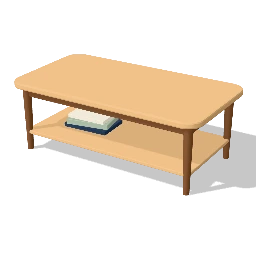
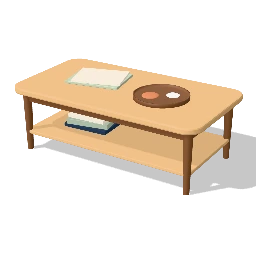
Style the timber coffee tables and lay the trestle and glass dining tables

diff --git a/packages/catalog/src/premium/tables.ts b/packages/catalog/src/premium/tables.ts
@@ -52,7 +52,9 @@ export function books(p: Parts, x: number, y: number, z: number, n: number, w = 
   }
 }
 
-/** Places a slab of `shape` so its top is at y. */
+/** Height kept for the styling on a coffee table top. */
+const DECOR_H = 0.03;
+
 /** A flat slab `w` x `d` with corner radius `r` and a bevelled edge, its top at y = `top`. The bevel stays inside the outline. */
 export const slabTop = (w: number, d: number, r: number, t: number, top: number, bevel: number) => slab(roundedRect(w - 2 * bevel, d - 2 * bevel, Math.max(0.001, r - bevel)), t, 0, top - t, 0, bevel);
 
@@ -61,7 +63,8 @@ export const slabTop = (w: number, d: number, r: number, t: number, top: number,
 /**
  * A coffee table (rectangular or square from its dims).
  * `material: 'wood'`: a soft-cornered oak top on tapered legs with aprons, a
- * lower shelf and a few books on it (`top`, `legs`).
+ * lower shelf and a few books on it (`top`, `legs`). `styled`: a book stack and a
+ * walnut tray with two pebbles on top, within the height.
  * `material: 'glass'`: a glass top showing its thickness in a slim black steel
  * frame, with a timber lower shelf (`top`, `frame`, `shelf`).
  */
@@ -93,12 +96,25 @@ export function buildCoffeeTable(entry: CatalogEntry, ctx?: BuildContext): THREE
   }
   const topT = 0.034;
   const r = Math.min(W, D) * 0.14;
-  p.part('top', slabTop(W, D, r, topT, H, 0.008));
+  // Styled: a book and a low tray on top. The table is then `DECOR_H` lower, so its height stays the entry's.
+  const styled = param<boolean>(entry, 'styled', false);
+  const T = styled ? H - DECOR_H : H;
+  p.part('top', slabTop(W, D, r, topT, T, 0.008));
   const ix = W / 2 - Math.max(0.07, r * 0.75);
   const iz = D / 2 - Math.max(0.07, r * 0.75);
-  for (const sx of [-1, 1]) for (const sz of [-1, 1]) p.part('legs', taperLeg(sx * ix, sz * iz, H - topT + 0.002, 0.024, 0.016, 0, 16));
+  for (const sx of [-1, 1]) for (const sz of [-1, 1]) p.part('legs', taperLeg(sx * ix, sz * iz, T - topT + 0.002, 0.024, 0.016, 0, 16));
+  if (styled) {
+    const bw = Math.min(0.3, W * 0.28);
+    const bd = Math.min(0.23, D * 0.38);
+    p.fixed('lacquer.sage', rbox(bw, 0.014, bd, 0.003, 0, T, 0, 1).rotateY(0.18).translate(-W * 0.18, 0, -D * 0.06));
+    p.fixed('lacquer.cream', rbox(bw * 0.9, 0.013, bd * 0.92, 0.002, 0, T + 0.014, 0, 1).rotateY(0.3).translate(-W * 0.18 + 0.01, 0, -D * 0.06));
+    const tr = Math.min(0.15, Math.min(W, D) * 0.24);
+    p.fixed('wood.walnut', lathe([[0, 0], [tr - 0.01, 0], [tr, 0.004], [tr, DECOR_H - 0.006], [tr - 0.006, DECOR_H - 0.006], [tr - 0.006, 0.008], [0, 0.008]], W * 0.2, T, D * 0.04, 40));
+    p.fixed('ceramic.terracotta', new THREE.SphereGeometry(0.045, 16, 10).scale(1, 0.22, 1).translate(W * 0.2 - tr * 0.3, T + 0.008 + 0.0099, D * 0.04 + tr * 0.25));
+    p.fixed('ceramic.white', new THREE.SphereGeometry(0.035, 16, 10).scale(1, 0.26, 1).translate(W * 0.2 + tr * 0.35, T + 0.008 + 0.0091, D * 0.04 - tr * 0.2));
+  }
   // Aprons between the legs, under the top.
-  const ay = H - topT - 0.055;
+  const ay = T - topT - 0.055;
   for (const s of [-1, 1]) {
     p.part('legs', rbox(2 * ix, 0.055, 0.02, 0.004, 0, ay, s * iz, 1));
     p.part('legs', rbox(0.02, 0.055, 2 * iz, 0.004, s * ix, ay, 0, 1));

diff --git a/packages/catalog/src/entries/tables.ts b/packages/catalog/src/entries/tables.ts
@@ -17,12 +17,12 @@ const DINING_GLASS = diningSlots('glass.clear', 'metal.black', 'glass', 'metal')
 const DINING_ROUND = diningSlots('stone.marble.white', 'wood.walnut', 'stone', 'wood');
 
 export const TABLES_ENTRIES: CatalogEntry[] = [
-  gen('table.coffee', 'Coffee table', 'tables', ['living'], 'coffeeTable', [1100, 600, 400], ['centre table', 'center table', 'wooden'], { slots: COFFEE_WOOD_SLOTS }),
+  gen('table.coffee', 'Coffee table', 'tables', ['living'], 'coffeeTable', [1100, 600, 400], ['centre table', 'center table', 'wooden'], { slots: COFFEE_WOOD_SLOTS, params: { styled: true } }),
   gen('table.coffee.glass', 'Glass coffee table', 'tables', ['living'], 'coffeeTable', [1100, 600, 400], ['centre table', 'center table', 'glass'], {
     slots: COFFEE_GLASS_SLOTS,
     params: { material: 'glass' },
   }),
-  gen('table.coffee.square', 'Square coffee table', 'tables', ['living'], 'coffeeTable', [750, 750, 400], ['centre table', 'center table', 'wooden'], { slots: COFFEE_WOOD_SLOTS }),
+  gen('table.coffee.square', 'Square coffee table', 'tables', ['living'], 'coffeeTable', [750, 750, 400], ['centre table', 'center table', 'wooden'], { slots: COFFEE_WOOD_SLOTS, params: { styled: true } }),
   gen('table.coffee.glass.square', 'Square glass coffee table', 'tables', ['living'], 'coffeeTable', [750, 750, 400], ['centre table', 'center table', 'glass'], {
     slots: COFFEE_GLASS_SLOTS,
     params: { material: 'glass' },
@@ -47,11 +47,11 @@ export const TABLES_ENTRIES: CatalogEntry[] = [
   }),
   gen('table.dining.trestle', 'Trestle dining table', 'tables', ['dining', 'living', 'balcony'], 'diningTable', [1800, 900, 750], ['dining', '6 seater', 'farmhouse'], {
     slots: DINING_OAK,
-    params: { base: 'trestle' },
+    params: { base: 'trestle', runner: true },
   }),
   gen('table.dining.glass', 'Glass dining table', 'tables', ['dining', 'living'], 'diningTable', [1700, 900, 750], ['dining', '6 seater', 'glass'], {
     slots: DINING_GLASS,
-    params: { base: 'sled', top: 'glass' },
+    params: { base: 'sled', top: 'glass', settings: 6 },
   }),
   gen('table.dining.round', 'Round dining table', 'tables', ['dining', 'kitchen', 'living'], 'diningTable', [1100, 1100, 750], ['dining', '4 seater', 'pedestal'], {
     slots: DINING_ROUND,
